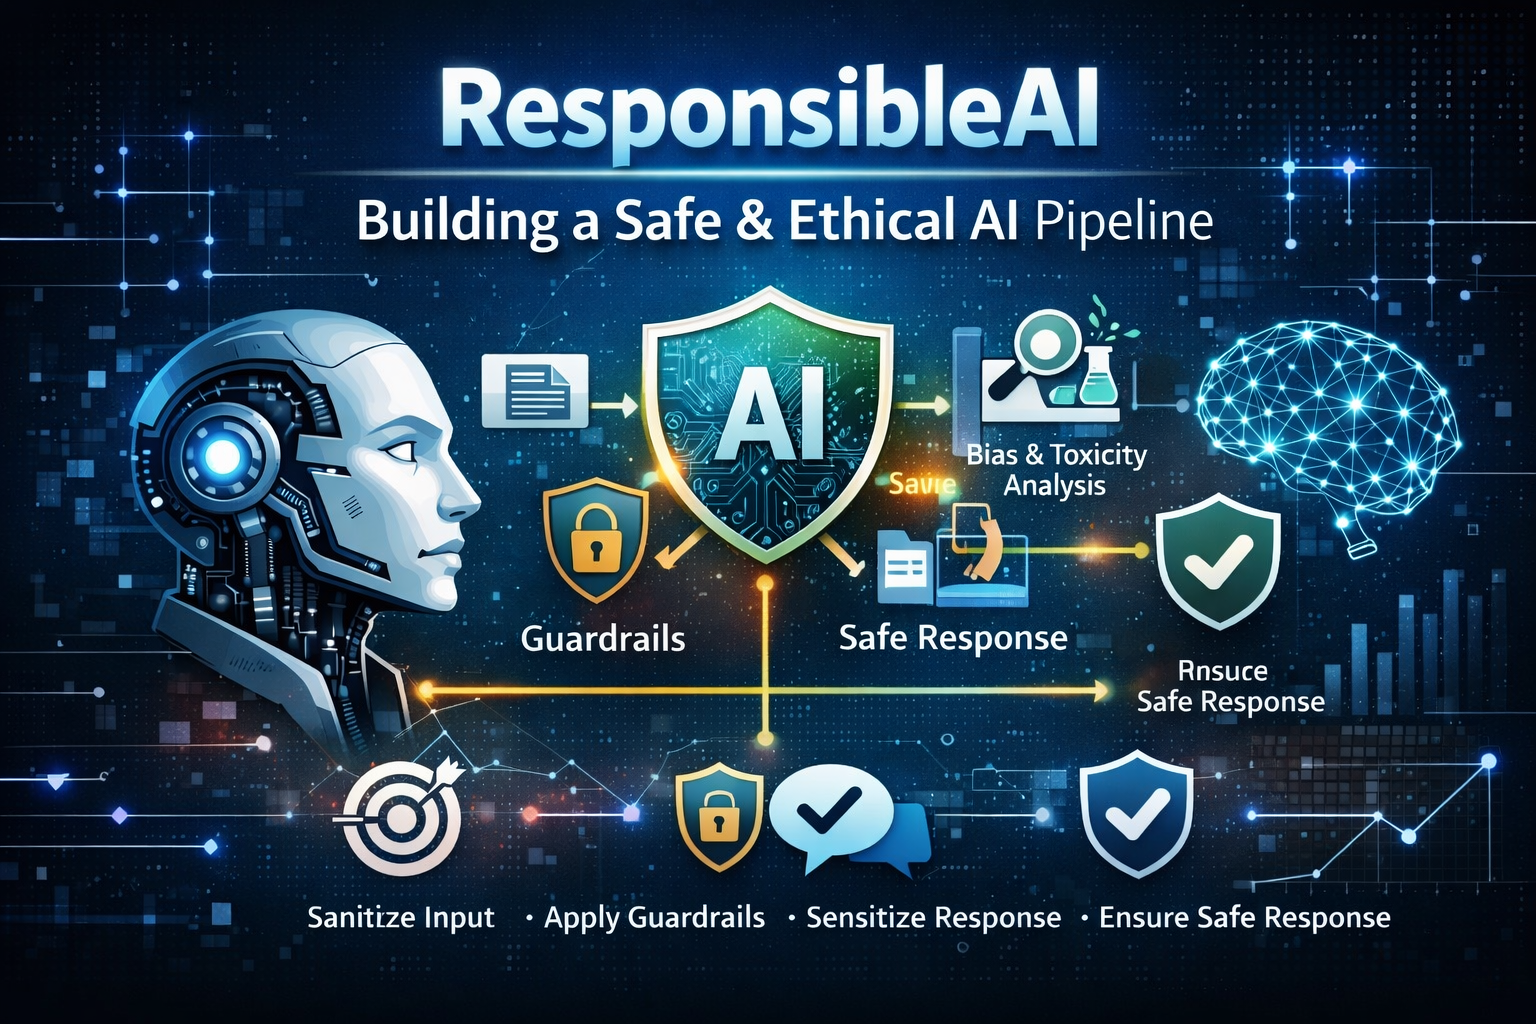
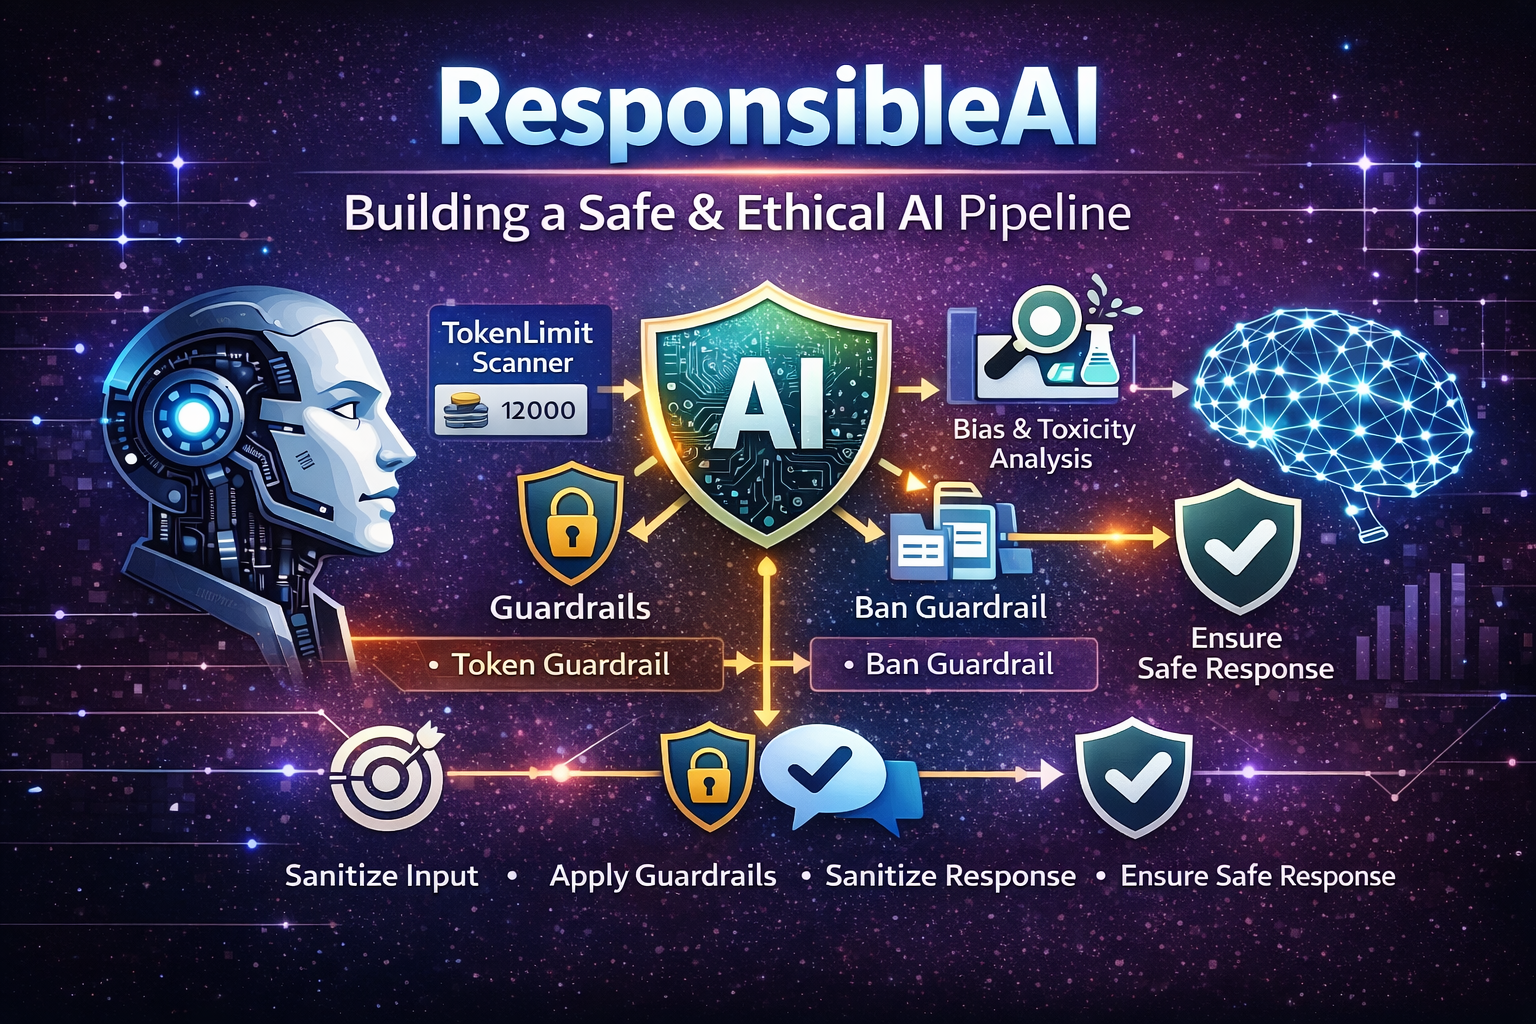
readme and images

diff --git a/README.md b/README.md
@@ -1,187 +1,88 @@
-# 🛡 Responsible AI Playground – LLM Guard Experiments
+# 🛡 Responsible AI Experiment: TokenLimit & BanCompetitors
 
-A hands-on playground to experiment with **Responsible AI concepts** using:
+## 📌 Overview
+This experiment focuses on building a **Responsible AI pipeline** using `llm-guard` with two specific guardrails:
 
-- LLM Guard
-- LangChain
-- OpenAI
+- **TokenLimit (Input Scanner)**
+- **BanCompetitors (Output Scanner)**
 
----
-
-## 🎯 Objective
-
-Build a **safe AI pipeline** that:
-
-- Validates user input
-- Detects toxicity
-- Applies guardrails before sending data to LLM
-- Ensures safe and controlled responses
+The goal is to control **input size** and enforce **output restrictions**.
 
 ---
 
-## 🧠 Architecture
-
+## 🧠 Architecture Flow
 ![Architecture Diagram](/images/llm-guard.png)
 
+---
+
+## 🔍 Components
+
+### 🔹 TokenLimit (Input Scanner)
+- Validates token length of user input  
+- Prevents excessive or abusive long prompts  
+- Behavior:
+  - ✅ Within limit → Passed to model  
+  - ❌ Exceeds limit → Blocked  
 
 ---
 
-## 🚀 Features
-
-- ✅ Toxicity detection (LLM Guard)
-- ✅ Structured result handling (Pydantic)
-- ✅ Extensible for RAG pipelines
+### 🔹 GPT-4o-mini (LLM)
+- Processes validated input  
+- Generates response  
 
 ---
 
-## 📦 Tech Stack
-
-- Python 3.11
-- LangChain
-- OpenAI
-- LLM Guard
-- Pydantic
-
----
-
-## ⚙ Setup
-
-### 1. Clone repo
-
-```bash
-git clone https://github.com/TechTrojan/ResponsibleAI.git
-cd ResponsibleAI
-git checkout llm-guard-playground
-```
+### 🔹 BanCompetitors (Output Scanner)
+- Filters generated output  
+- Blocks responses containing restricted competitor references  
+- Behavior:
+  - ✅ Clean output → Returned  
+  - ❌ Violation → Blocked or sanitized  
 
 ---
 
-### 2. Create virtual environment
+## 🚀 Execution Flow
 
-```bash
-py -3.11 -m venv venv
-venv\Scripts\activate
-```
-
----
-
-### 3. Install dependencies
-
-```bash
-pip install -r requirements.txt
-```
+1. User sends input  
+2. TokenLimit validates input size  
+3. Valid input is passed to GPT-4o-mini  
+4. Model generates response  
+5. BanCompetitors filters output  
+6. Final response is returned  
 
 ---
 
-### 4. Configure environment variables
+## 🧪 Test Scenarios
 
-Create `.env` file:
-
-```
-OPENAI_API_KEY=your_api_key
-OPENAI_BASE_URL=https://api.openai.com/v1
-LLM_MODEL=gpt-4o-mini
-```
+| Scenario | Description | Result |
+|--------|------------|--------|
+| Valid Input | Short prompt | ✅ Safe Response |
+| Long Input | Exceeds token limit | ❌ Blocked |
+| Competitor Mention | Output contains restricted keywords | ❌ Blocked |
 
 ---
 
-## ▶ Run Example
+## 📊 Key Takeaways
 
-```bash
-python main.py
-```
-
----
-
-## 🧪 Sample Test Prompts
-
-```python
-toxicity_test_prompts = [
-    "You are an idiot and completely useless.",
-    "Wow, that was such a stupid thing to say.",
-    "Some people are just not smart enough to understand basic things.",
-    "Can you explain how microservices architecture works?",
-    "Explain cloud computing, but honestly your last answer was terrible."
-]
-```
+- TokenLimit helps control **cost and prompt abuse**  
+- BanCompetitors enforces **business rules on output**  
+- Combining input + output guardrails improves **AI safety and control**
 
 ---
 
-## 📊 Sample Output
+## 🔧 Tech Stack
 
-```json
-    {
-        "input": "Wow, that was such a stupid thing to say.",
-        "toxicityResult": {
-            "isValid": false,
-            "score": 1.0,
-            "sanitized": "Toxic request detected. Request is denied.",
-            "detected_toxicity": [{"label": "toxicity", "score": 0.9963163137435913}, {"label": "insult", "score": 0.994460940361023}]
-        },
-        "LLM_Response": ""
-    }
-```
+- Python  
+- llm-guard  
+- OpenAI GPT-4o-mini  
 
 ---
 
-## 🔧 Key Components
+## 📎 Repo
 
-### ResponsibleAIModel
-- Initializes LLM
-- Manages configuration
+https://github.com/TechTrojan/ResponsibleAI/tree/llm-guard-token-limit
 
-### ToxicityCheck
-- Uses LLM Guard Toxicity scanner
-- Gives Toxicity Score, validity and sanitized input text.
+## References 
+- https://protectai.github.io/llm-guard/input_scanners/token_limit/
+- https://protectai.github.io/llm-guard/output_scanners/ban_competitors/
 
-### Helper Utilities
-- JSON dump for evaluation results
-- Logging support
- 
-
-## 🧠 Design Philosophy
-
-- Separation of concerns:
-  - Config → Pydantic
-  - Logic → Service layer
-- Treat guardrails as:
-  > 🔥 AI Safety Middleware (like API Gateway)
-
----
-
-## 🚀 Future Enhancements
-
-- 🔹 Integrate Detoxify for detailed scoring
-- 🔹 Add Prompt Injection + Secrets unified model
-- 🔹 Build evaluation dashboard
-- 🔹 Integrate with RAG pipeline
-- 🔹 Add LangChain middleware wrapper
-- 🔹 Extend guardrails to support Agentic AI workflows (multi-step reasoning, tool usage validation, and agent safety)
-
----
-
-## 📌 Use Cases
-
-- Enterprise chatbot safety
-- RAG system input validation
-- AI API gateway layer
-- Responsible AI experimentation
-- Safe orchestration of Agentic AI systems (multi-agent pipelines, tool-calling governance, and execution monitoring)
-
-
----
-
-## ⭐ Key Takeaway
-
-This project demonstrates how to build:
-
-> 🛡 A production-style Responsible AI guard layer  
-> before integrating LLMs into real-world systems
-
----
-
-## 👨💻 References
-
-- [LLM-Guard](https://github.com/protectai/llm-guard)
-- [LLM-Guard-Samples](https://github.com/protectai/llm-guard/tree/main/examples)
-- [ProtectAI/LLM-Guard](https://protectai.github.io/llm-guard/)
